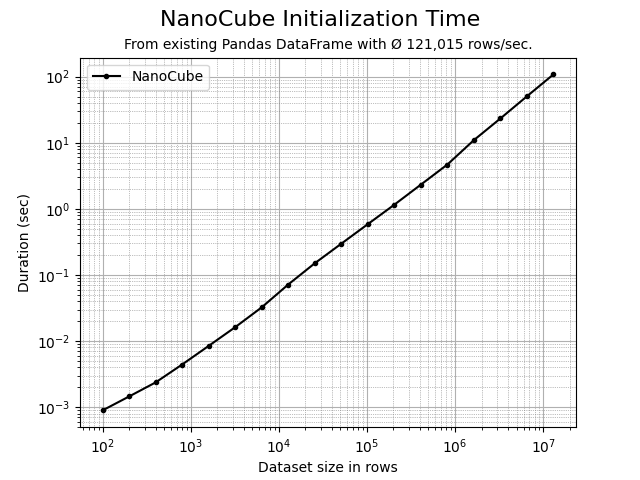
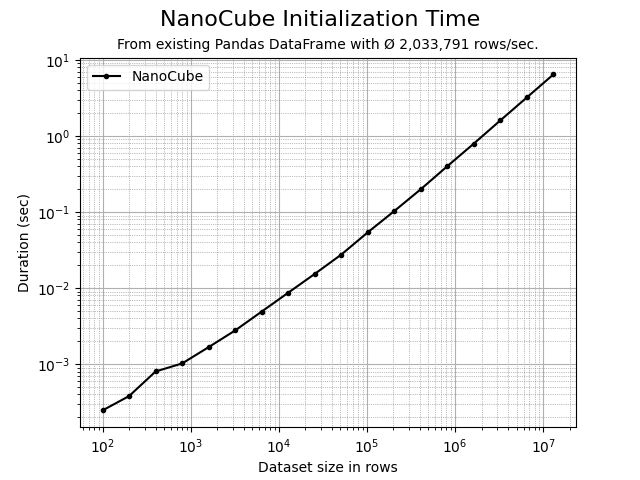
initialization fixed

Changed region(s): [[0.0625, 0.0625, 0.9062, 0.875], [0.0625, 0.6875, 0.125, 0.7188], [0.0625, 0.8438, 0.0938, 0.875]]

diff --git a/benchmarks/benchmark.py b/benchmarks/benchmark.py
@@ -58,10 +58,10 @@ class Benchmark:
 
             # make the cube
             start = datetime.datetime.now()
-            cube = NanoCube(df)
+            cube = NanoCube(df, caching=False)
             duration = (datetime.datetime.now() - start).total_seconds()
             data["duration"].append(duration)
-            print(f", cube init. in {duration:.5f} sec", end="")
+            print(f", cube init in {duration:.5f} sec", end="")
 
             # small query
             for size in ["s", "m", "l", "xl", "hk"]:

diff --git a/README.md b/README.md
@@ -15,8 +15,8 @@ on Pandas DataFrames. As of now, less than 50 lines of code are required to tran
 multi-dimensional OLAP cube. NanoCube shines when point queries need to be executed on a DataFrame,
 e.g. for financial data analysis, business intelligence or fast web services.
 
-If you believe it would be valuable to **extend NanoCube with additional OLAP features** and improve its speed - 
-_yes, that’s possible_ - please let me know. You can reach out by opening an issue or contacting me 
+If you think it would be valuable to **extend NanoCube with additional OLAP features** 
+please let me know. You can reach out by opening an issue or contacting me 
 on [LinkedIn](https://www.linkedin.com/in/thomas-zeutschler/).
 
 ``` bash
@@ -63,8 +63,8 @@ The more point query you run, the more you benefit from NanoCube.
 
 ### How is this possible?
 NanoCube creates an in-memory multi-dimensional index over all relevant entities/columns in a dataframe.
-Internally, Roaring Bitmaps (https://roaringbitmap.org) are used. Initialization takes some time, but 
-yields very fast filtering and point queries.
+Internally, Roaring Bitmaps (https://roaringbitmap.org) are used for representing the index. 
+Initialization may take some time, but yields very fast filtering and point queries.
 
 Approach: For each unique value in all relevant dimension columns, a bitmap is created that represents the 
 rows in the DataFrame where this value occurs. The bitmaps can then be combined or intersected to determine 
@@ -77,9 +77,9 @@ any Pandas DataFrame for the special purpose of point queries.
 
 ### What price do I have to pay?
 NanoCube is free and MIT licensed. The prices to pay are additional memory consumption, depending on the
-use case typically 25% on top of the original DataFrame and the time needed for initializing the multidimensional
-index, typically 50k - 250k rows/sec depending on the number of columns to be indexed and your hardware. 
-The initialization time is proportional to the number of rows in the DataFrame (see below).
+use case typically 25% on top of the original DataFrame and the time needed for initializing the 
+multi-dimensional index, typically 250k rows/sec depending on the number of columns to be indexed and 
+your hardware. The initialization time is proportional to the number of rows in the DataFrame (see below).
 
 You may want to try and adapt the included samples [`sample.py`](samples/sample.py) and benchmarks 
 [`benchmark.py`](benchmarks/benchmark.py) and [`benchmark.ipynb`](benchmarks/benchmark.ipynb) to test the behavior of NanoCube 
@@ -125,11 +125,11 @@ aggregation.
 ![Point query aggregating 50% of rows](benchmarks/charts/xl.png)
 
 #### NanoCube initialization time
-The time required to initialize a NanoCube instance is linear.
-Depending on the number of dimensions and the cardinality a throughput of
-20k to 200k rows/sec can be expected. Almost all time is spent requesting
-data from Pandas. The initialization of the Roaring Bitmaps taken no time.
-Likely, a custom file format for NanoCube data would be highly beneficial.
+The time required to initialize a NanoCube instance is almost linear.
+The initialization throughput heavily depends on the number of dimension columns. 
+A custom file format will be added soon allowing ±4x times faster loading
+of a NanoCube in comparison to loading the respective parquet dataframe file
+using Arrow.
 
 ![NanoCube initialization time](benchmarks/charts/init.png)
 
